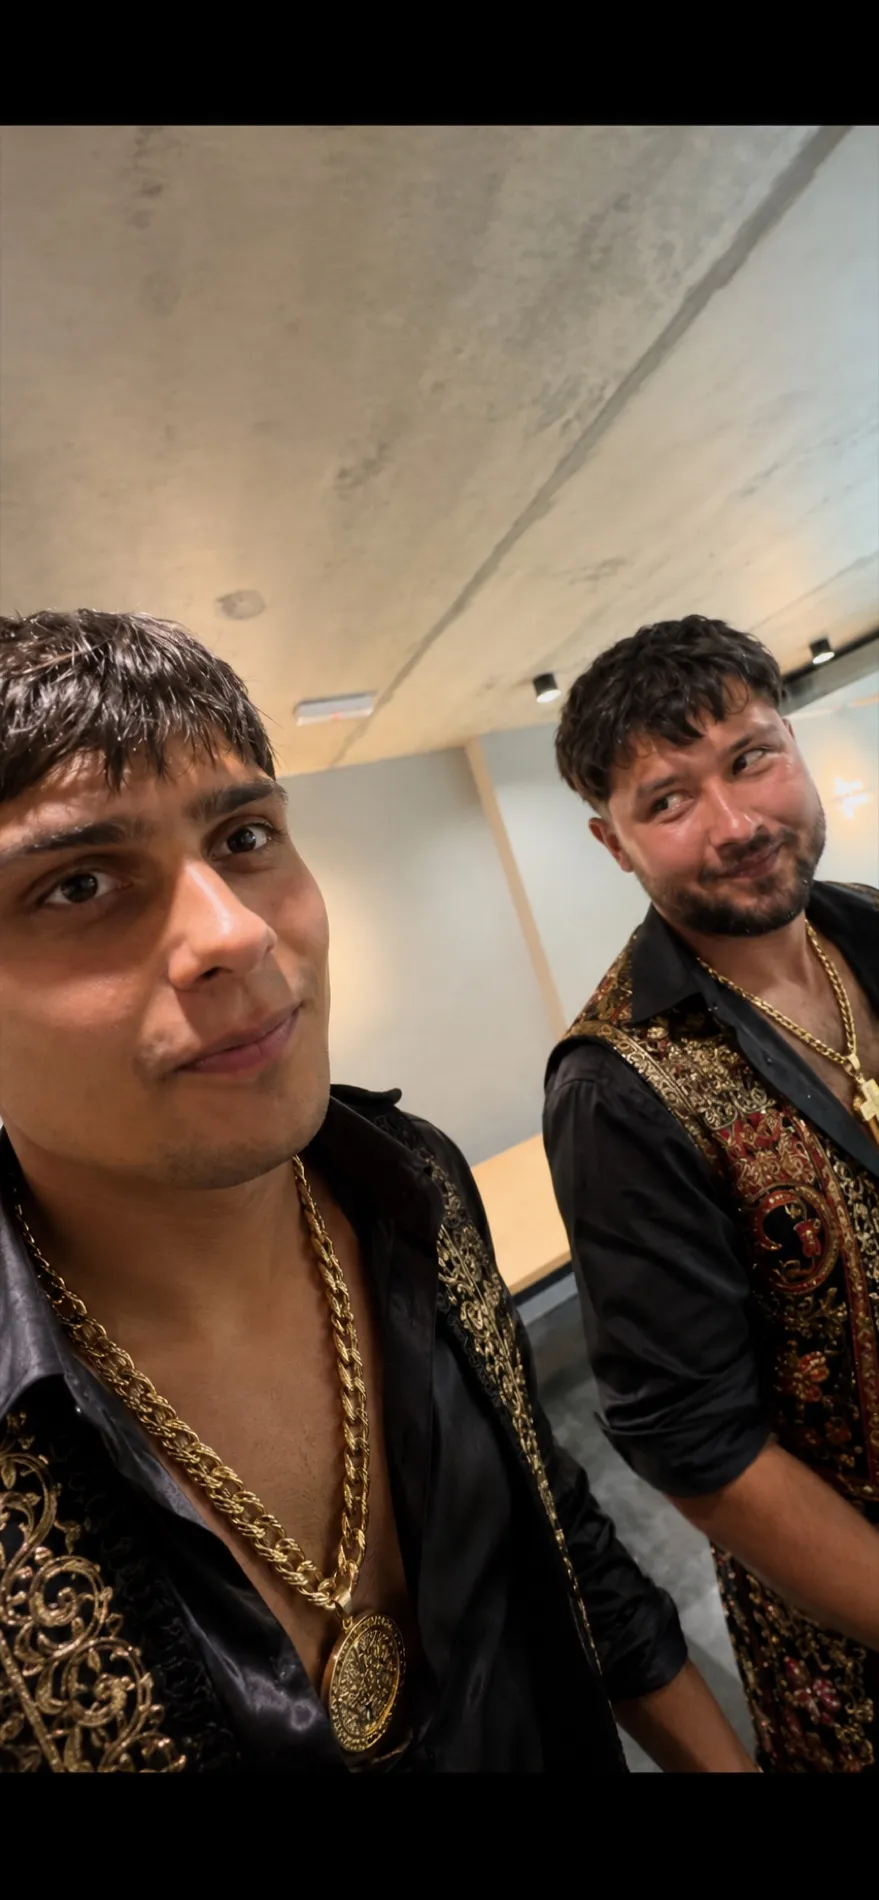
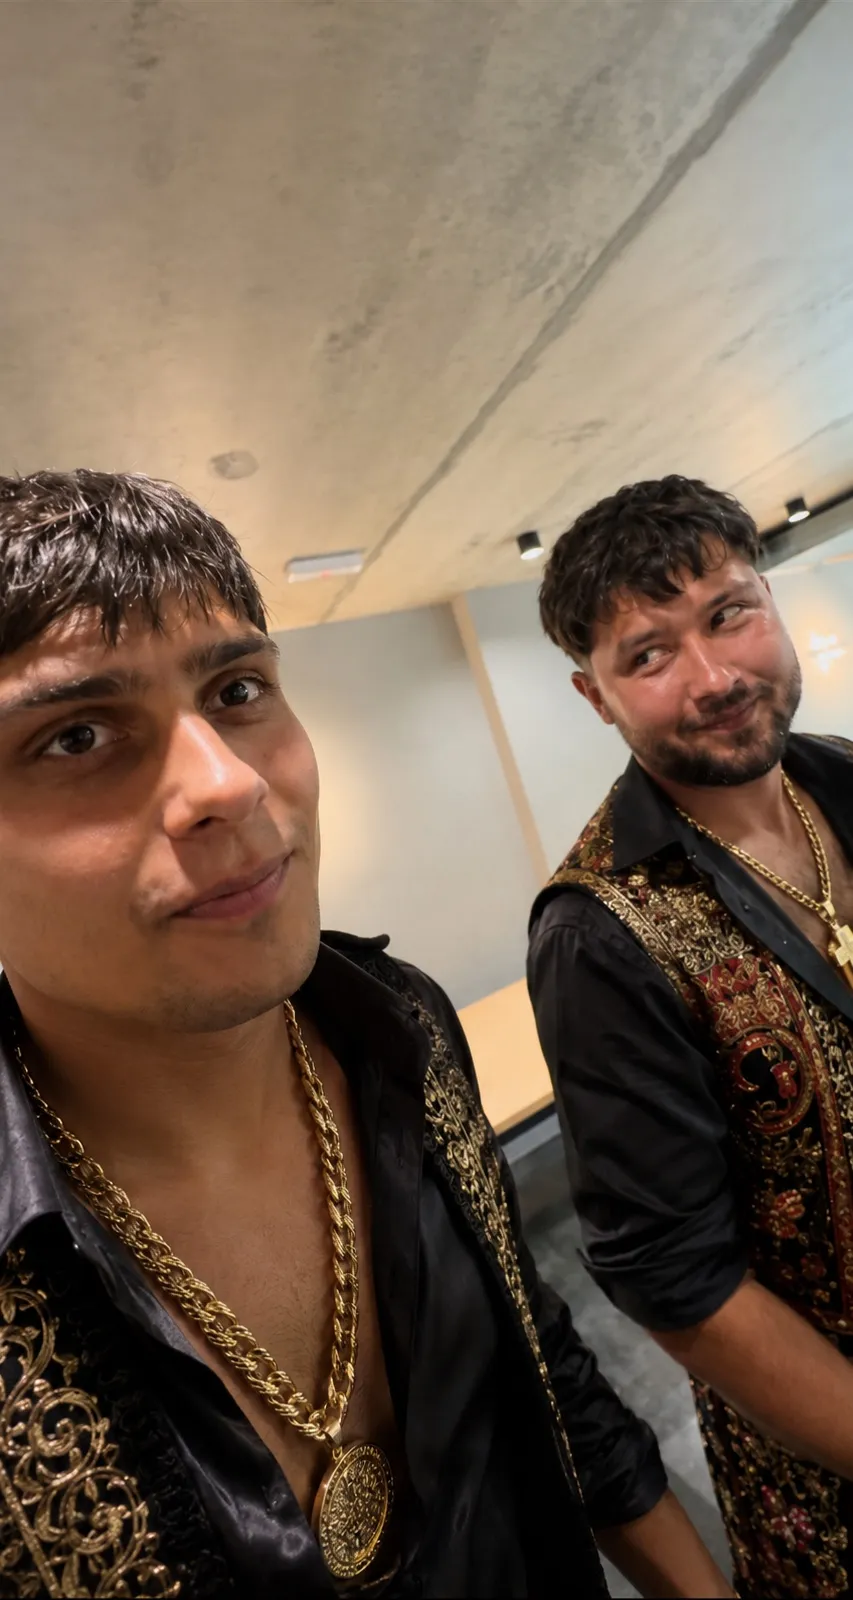
Fix GitHub Pages deployment

diff --git a/src/data/sima.ts b/src/data/sima.ts
@@ -35,6 +35,9 @@ export interface Song {
   src: string
 }
 
+const assetUrl = (path: string) =>
+  path ? `${import.meta.env.BASE_URL}${path.replace(/^\/+/, '')}` : ''
+
 export const sima = {
   name: 'Сіма',
   age: 24,
@@ -70,25 +73,25 @@ export const sima = {
   ],
 
   photos: [
-    { id: 'featured', image: '/photos/sima-hero.webp', placeholder: 'SIMA_FEATURED', caption: 'Головний герой.', date: '2026', category: 'Звичайне', featured: true, alt: 'Портрет Сіми серед дерев', objectPosition: '50% 43%' },
-    { id: 'terrace-portrait', image: '/photos/sima-terrace-portrait.webp', placeholder: 'SIMA_PORTRAIT', caption: 'Режим: спокій.', date: 'СПОГАД', funnyCaption: 'Статус: усе під контролем.', category: 'Звичайне', featured: false, alt: 'Портрет Сіми на терасі', objectPosition: '67% 43%' },
-    { id: 'funny-ground', image: '/photos/sima-ground-portrait.webp', placeholder: 'SIMA_FUNNY_01', caption: 'Контексту не буде.', date: '2026', funnyCaption: 'Рішення було прийнято.', category: 'Сумнівне', featured: false, alt: 'Кумедний портрет Сіми з ракурсу згори', objectPosition: '50% 54%' },
-    { id: 'group-evening', image: '/photos/sima-group-evening.webp', placeholder: 'SIMA_MEMORY_01', caption: 'Невелика компанія.', date: 'СПОГАД', funnyCaption: 'Принаймні так було сказано.', category: 'Спогади', featured: false, alt: 'Сіма робить вечірнє групове селфі', objectPosition: '50% 50%' },
-    { id: 'cat', image: '/photos/sima-with-cat.webp', placeholder: 'SIMA_LEGENDARY_CAT', caption: 'Два абсолютні авторитети.', date: '2026', funnyCaption: 'Один із них явно не в захваті.', category: 'Легендарне', featured: false, alt: 'Сіма тримає великого сірого кота', objectPosition: '53% 47%' },
-    { id: 'dinner-group', image: '/photos/sima-dinner-group.webp', placeholder: 'SIMA_MEMORY_02', caption: 'Командний брейншторм.', date: 'СПОГАД', funnyCaption: 'Починався як звичайна вечеря.', category: 'Спогади', featured: false, alt: 'Сіма з компанією друзів за столом', objectPosition: '50% 63%' },
-    { id: 'church', image: '/photos/sima-leadership-stage.webp', placeholder: 'SIMA_CHURCH', caption: 'Режим лідера.', date: 'СПОГАД', funnyCaption: 'Коли ведеш — люди відповідають.', category: 'Церква', featured: false, alt: 'Сіма веде молодіжну зустріч зі сцени', objectPosition: '51% 45%' },
-    { id: 'restaurant', image: '/photos/sima-restaurant.webp', placeholder: 'SIMA_RESTAURANT', caption: 'Важливі рішення приймаються за столом.', date: '2026', funnyCaption: 'Навіть якщо це просто замовлення.', category: 'Спогади', featured: false, alt: 'Сіма за столом у ресторані', objectPosition: '32% 48%' },
-    { id: 'golden-age', image: '/photos/sima-golden-age.webp', placeholder: 'SIMA_CAMPAIGN', caption: 'Sima × Золотий Вік.', date: 'СПОГАД', funnyCaption: 'Колаборація року.', category: 'Легендарне', featured: false, alt: 'Жартівливий рекламний портрет Сіми з коробкою прикрас', objectPosition: '45% 40%' },
-    { id: 'group-night', image: '/photos/sima-group-night.webp', placeholder: 'SIMA_MEMORY_03', caption: 'Він якось знову зібрав усіх.', date: '2024', funnyCaption: 'Режим наставника: завжди ввімкнено.', category: 'Спогади', featured: false, alt: 'Сіма з великою групою ввечері', objectPosition: '50% 50%' },
-    { id: 'audi', image: '/photos/sima-audi-memory.webp', placeholder: 'SIMA_AUDI', caption: 'Технічна нарада.', date: 'СПОГАД', funnyCaption: 'Пройшла просто на місці.', category: 'Audi', featured: false, alt: 'Сіма з другом біля автомобіля серед дерев', objectPosition: '58% 45%' },
-    { id: 'chips', image: '/photos/sima-chips.webp', placeholder: 'SIMA_FUNNY_02', caption: 'Вибір, від якого залежить майбутнє.', date: '2026', funnyCaption: 'Обидва варіанти пройшли перевірку Сімою.', category: 'Сумнівне', featured: false, alt: 'Сіма з другом обирають чипси', objectPosition: '52% 45%' },
-    { id: 'simaos-loading', image: '/photos/sima-loading.webp', placeholder: 'SIMA_LOADING', caption: 'SimaOS ще завантажується.', date: '2024', funnyCaption: 'Фото зроблено на 73%.', category: 'Сумнівне', featured: false, alt: 'Кумедний кадр Сіми з компанією в кімнаті', objectPosition: '52% 46%' },
-    { id: 'mirror', image: '/photos/sima-mirror.webp', placeholder: 'SIMA_MIRROR', caption: 'Перевірка образу.', date: 'СПОГАД', funnyCaption: 'Дзеркало схвалило.', category: 'Звичайне', featured: false, alt: 'Сіма з другом фотографуються у дзеркалі', objectPosition: '50% 46%' },
-    { id: 'playground', image: '/photos/sima-playground.webp', placeholder: 'SIMA_LEGENDARY_01', caption: 'Впевненість — MAX.', date: '2026', funnyCaption: 'Техніка безпеки вийшла з чату.', category: 'Легендарне', featured: false, alt: 'Сіма стоїть на конструкції спортивного майданчика', objectPosition: '62% 39%' },
-    { id: 'gold-outfit', image: '/photos/sima-gold-outfit.webp', placeholder: 'SIMA_GOLD_MODE', caption: 'Дрескод: із характером.', date: 'СПОГАД', funnyCaption: 'Скромність була в іншому образі.', category: 'Легендарне', featured: false, alt: 'Сіма з другом у чорно-золотих сценічних образах', objectPosition: '50% 47%' },
-    { id: 'trio', image: '/photos/sima-trio.webp', placeholder: 'SIMA_MEMORY_04', caption: 'Команда зібрана.', date: '2026', funnyCaption: 'План з’явиться дорогою.', category: 'Спогади', featured: false, alt: 'Сіма з двома друзями після спільного вечора', objectPosition: '45% 50%' },
-    { id: 'closeup', image: '/photos/sima-closeup.webp', placeholder: 'SIMA_FUNNY_03', caption: 'Фронталка без попередження.', date: 'СПОГАД', funnyCaption: 'Mentor Mode бачить усе.', category: 'Сумнівне', featured: false, alt: 'Дуже крупний кумедний портрет Сіми в автомобілі', objectPosition: '50% 50%' },
-    { id: 'church-costume', image: '/photos/sima-church-costume.webp', placeholder: 'SIMA_CHURCH_MODE', caption: 'Церковний режим: активний.', date: '2024', funnyCaption: 'Костюмний пакет встановлено.', category: 'Церква', featured: false, alt: 'Сіма у біблійному сценічному костюмі', objectPosition: '50% 43%' },
+    { id: 'featured', image: assetUrl('photos/sima-hero.webp'), placeholder: 'SIMA_FEATURED', caption: 'Головний герой.', date: '2026', category: 'Звичайне', featured: true, alt: 'Портрет Сіми серед дерев', objectPosition: '50% 43%' },
+    { id: 'terrace-portrait', image: assetUrl('photos/sima-terrace-portrait.webp'), placeholder: 'SIMA_PORTRAIT', caption: 'Режим: спокій.', date: 'СПОГАД', funnyCaption: 'Статус: усе під контролем.', category: 'Звичайне', featured: false, alt: 'Портрет Сіми на терасі', objectPosition: '67% 43%' },
+    { id: 'funny-ground', image: assetUrl('photos/sima-ground-portrait.webp'), placeholder: 'SIMA_FUNNY_01', caption: 'Контексту не буде.', date: '2026', funnyCaption: 'Рішення було прийнято.', category: 'Сумнівне', featured: false, alt: 'Кумедний портрет Сіми з ракурсу згори', objectPosition: '50% 54%' },
+    { id: 'group-evening', image: assetUrl('photos/sima-group-evening.webp'), placeholder: 'SIMA_MEMORY_01', caption: 'Невелика компанія.', date: 'СПОГАД', funnyCaption: 'Принаймні так було сказано.', category: 'Спогади', featured: false, alt: 'Сіма робить вечірнє групове селфі', objectPosition: '50% 50%' },
+    { id: 'cat', image: assetUrl('photos/sima-with-cat.webp'), placeholder: 'SIMA_LEGENDARY_CAT', caption: 'Два абсолютні авторитети.', date: '2026', funnyCaption: 'Один із них явно не в захваті.', category: 'Легендарне', featured: false, alt: 'Сіма тримає великого сірого кота', objectPosition: '53% 47%' },
+    { id: 'dinner-group', image: assetUrl('photos/sima-dinner-group.webp'), placeholder: 'SIMA_MEMORY_02', caption: 'Командний брейншторм.', date: 'СПОГАД', funnyCaption: 'Починався як звичайна вечеря.', category: 'Спогади', featured: false, alt: 'Сіма з компанією друзів за столом', objectPosition: '50% 63%' },
+    { id: 'church', image: assetUrl('photos/sima-leadership-stage.webp'), placeholder: 'SIMA_CHURCH', caption: 'Режим лідера.', date: 'СПОГАД', funnyCaption: 'Коли ведеш — люди відповідають.', category: 'Церква', featured: false, alt: 'Сіма веде молодіжну зустріч зі сцени', objectPosition: '51% 45%' },
+    { id: 'restaurant', image: assetUrl('photos/sima-restaurant.webp'), placeholder: 'SIMA_RESTAURANT', caption: 'Важливі рішення приймаються за столом.', date: '2026', funnyCaption: 'Навіть якщо це просто замовлення.', category: 'Спогади', featured: false, alt: 'Сіма за столом у ресторані', objectPosition: '32% 48%' },
+    { id: 'golden-age', image: assetUrl('photos/sima-golden-age.webp'), placeholder: 'SIMA_CAMPAIGN', caption: 'Sima × Золотий Вік.', date: 'СПОГАД', funnyCaption: 'Колаборація року.', category: 'Легендарне', featured: false, alt: 'Жартівливий рекламний портрет Сіми з коробкою прикрас', objectPosition: '45% 40%' },
+    { id: 'group-night', image: assetUrl('photos/sima-group-night.webp'), placeholder: 'SIMA_MEMORY_03', caption: 'Він якось знову зібрав усіх.', date: '2024', funnyCaption: 'Режим наставника: завжди ввімкнено.', category: 'Спогади', featured: false, alt: 'Сіма з великою групою ввечері', objectPosition: '50% 50%' },
+    { id: 'audi', image: assetUrl('photos/sima-audi-memory.webp'), placeholder: 'SIMA_AUDI', caption: 'Технічна нарада.', date: 'СПОГАД', funnyCaption: 'Пройшла просто на місці.', category: 'Audi', featured: false, alt: 'Сіма з другом біля автомобіля серед дерев', objectPosition: '58% 45%' },
+    { id: 'chips', image: assetUrl('photos/sima-chips.webp'), placeholder: 'SIMA_FUNNY_02', caption: 'Вибір, від якого залежить майбутнє.', date: '2026', funnyCaption: 'Обидва варіанти пройшли перевірку Сімою.', category: 'Сумнівне', featured: false, alt: 'Сіма з другом обирають чипси', objectPosition: '52% 45%' },
+    { id: 'simaos-loading', image: assetUrl('photos/sima-loading.webp'), placeholder: 'SIMA_LOADING', caption: 'SimaOS ще завантажується.', date: '2024', funnyCaption: 'Фото зроблено на 73%.', category: 'Сумнівне', featured: false, alt: 'Кумедний кадр Сіми з компанією в кімнаті', objectPosition: '52% 46%' },
+    { id: 'mirror', image: assetUrl('photos/sima-mirror.webp'), placeholder: 'SIMA_MIRROR', caption: 'Перевірка образу.', date: 'СПОГАД', funnyCaption: 'Дзеркало схвалило.', category: 'Звичайне', featured: false, alt: 'Сіма з другом фотографуються у дзеркалі', objectPosition: '50% 46%' },
+    { id: 'playground', image: assetUrl('photos/sima-playground.webp'), placeholder: 'SIMA_LEGENDARY_01', caption: 'Впевненість — MAX.', date: '2026', funnyCaption: 'Техніка безпеки вийшла з чату.', category: 'Легендарне', featured: false, alt: 'Сіма стоїть на конструкції спортивного майданчика', objectPosition: '62% 39%' },
+    { id: 'gold-outfit', image: assetUrl('photos/sima-gold-outfit.webp'), placeholder: 'SIMA_GOLD_MODE', caption: 'Дрескод: із характером.', date: 'СПОГАД', funnyCaption: 'Скромність була в іншому образі.', category: 'Легендарне', featured: false, alt: 'Сіма з другом у чорно-золотих сценічних образах', objectPosition: '50% 47%' },
+    { id: 'trio', image: assetUrl('photos/sima-trio.webp'), placeholder: 'SIMA_MEMORY_04', caption: 'Команда зібрана.', date: '2026', funnyCaption: 'План з’явиться дорогою.', category: 'Спогади', featured: false, alt: 'Сіма з двома друзями після спільного вечора', objectPosition: '45% 50%' },
+    { id: 'closeup', image: assetUrl('photos/sima-closeup.webp'), placeholder: 'SIMA_FUNNY_03', caption: 'Фронталка без попередження.', date: 'СПОГАД', funnyCaption: 'Mentor Mode бачить усе.', category: 'Сумнівне', featured: false, alt: 'Дуже крупний кумедний портрет Сіми в автомобілі', objectPosition: '50% 50%' },
+    { id: 'church-costume', image: assetUrl('photos/sima-church-costume.webp'), placeholder: 'SIMA_CHURCH_MODE', caption: 'Церковний режим: активний.', date: '2024', funnyCaption: 'Костюмний пакет встановлено.', category: 'Церква', featured: false, alt: 'Сіма у біблійному сценічному костюмі', objectPosition: '50% 43%' },
   ] satisfies SimaPhoto[],
 
   specifications: [
@@ -110,7 +113,7 @@ export const sima = {
     designed: 'Створено Audi.',
     operated: 'Керує Сіма.',
     placeholder: 'SIMA_AUDI',
-    image: '/photos/sima-audi-memory.webp',
+    image: assetUrl('photos/sima-audi-memory.webp'),
     alt: 'Сіма з другом біля автомобіля серед дерев',
     objectPosition: '58% 45%',
     facts: [
@@ -192,7 +195,7 @@ export const sima = {
   ] satisfies InsideJoke[],
 
   songs: [
-    { title: 'Dai Dai', artist: 'Shakira & Burna Boy', src: '/audio/dai-dai-shakira-burna-boy.mp3' },
+    { title: 'Dai Dai', artist: 'Shakira & Burna Boy', src: assetUrl('audio/dai-dai-shakira-burna-boy.mp3') },
     { title: 'Shakira & Burna Boy', artist: 'Додайте точну назву', src: '' },
     { title: 'GIRL LIKE ME', artist: 'Black Eyed Peas & Shakira', src: '' },
   ] satisfies Song[],

diff --git a/vite.config.ts b/vite.config.ts
@@ -2,6 +2,7 @@ import { defineConfig } from 'vite'
 import react from '@vitejs/plugin-react'
 
 export default defineConfig({
+  base: '/sima/',
   plugins: [react()],
   server: { host: '127.0.0.1', port: 4173 },
 })

diff --git a/README.md b/README.md
@@ -21,8 +21,14 @@ npm run dev
 - `songs` — локальні аудіофайли.
 - `leadership`, `mentor`, `impact`, `faith`, `finale` — особисті повідомлення.
 
-Фото зручно покласти в `public/photos`, музику — у `public/audio`, а в конфігурації вказувати шляхи на кшталт `/photos/sima-hero.webp` або `/audio/track.mp3`.
+Фото зручно покласти в `public/photos`, музику — у `public/audio`, а в конфігурації пропускати відносні шляхи на кшталт `photos/sima-hero.webp` або `audio/track.mp3` через helper `assetUrl`. Так медіа працюють і локально, і на GitHub Pages у підшляху `/sima/`.
 
 Музика не запускається автоматично. Плеєр відтворює лише локальні файли, додані власником сайту.
 
 Поточна збірка вже містить 19 оптимізованих WebP-фото Сіми та локальний трек `Dai Dai`. Оригінальні HEIC/JPG/PNG-файли не змінювалися.
+
+## GitHub Pages
+
+Push у `main` автоматично збирає Vite-проєкт і публікує папку `dist` через workflow `.github/workflows/deploy-pages.yml`.
+
+Адреса сайту: `https://markdevelopertest.github.io/sima/`.
